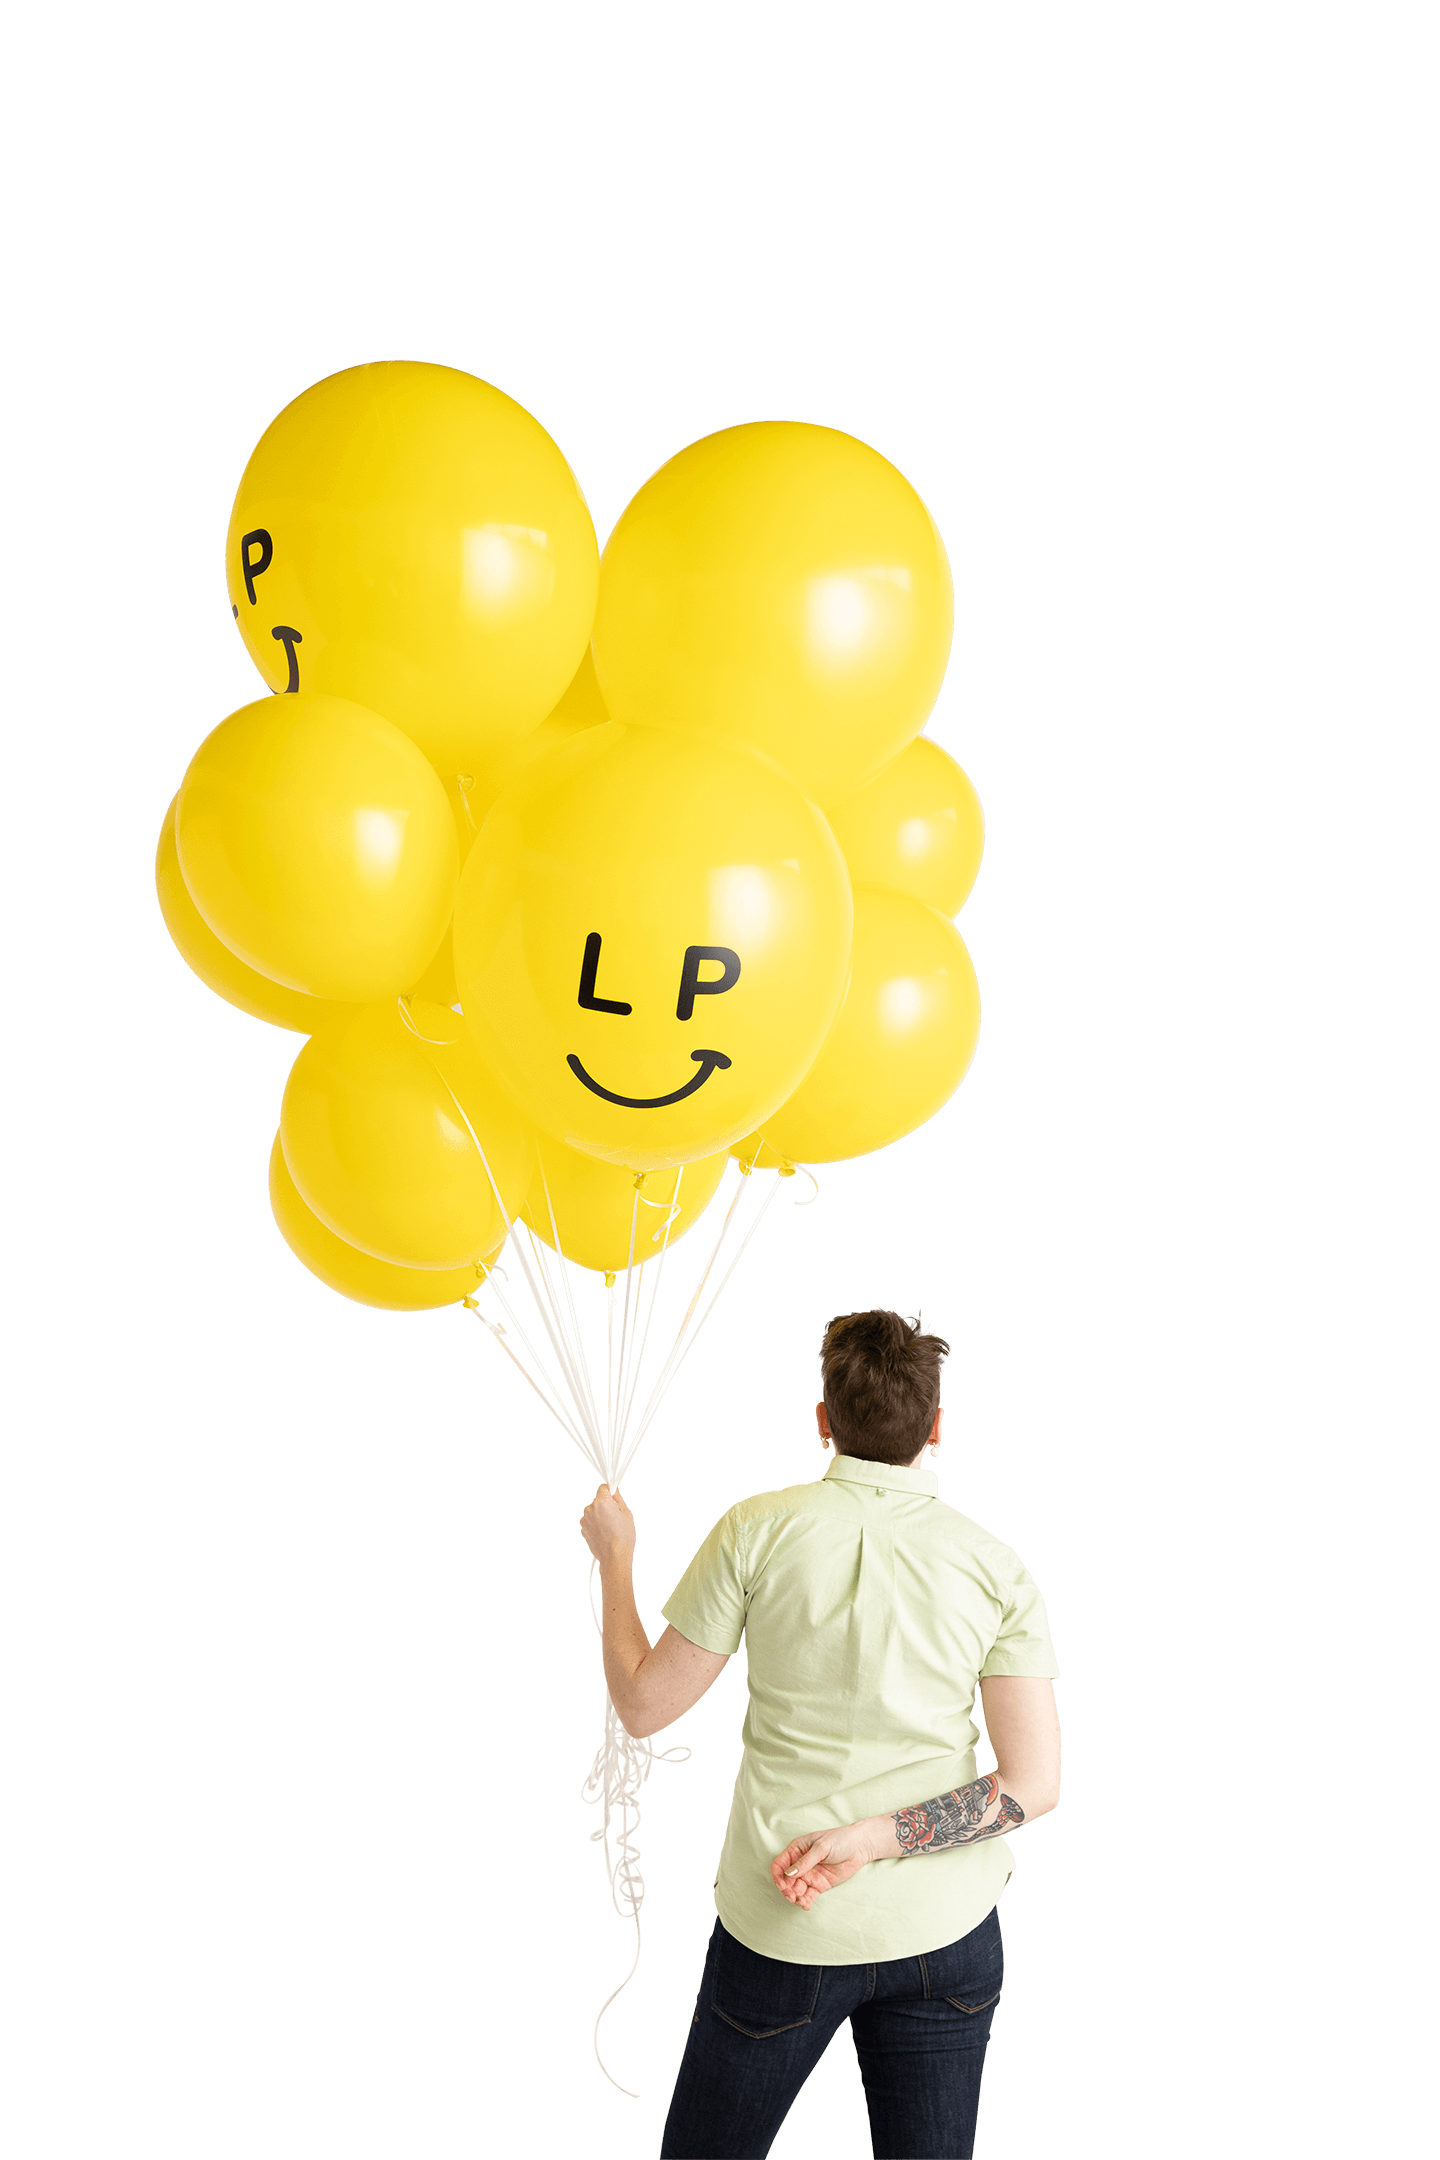
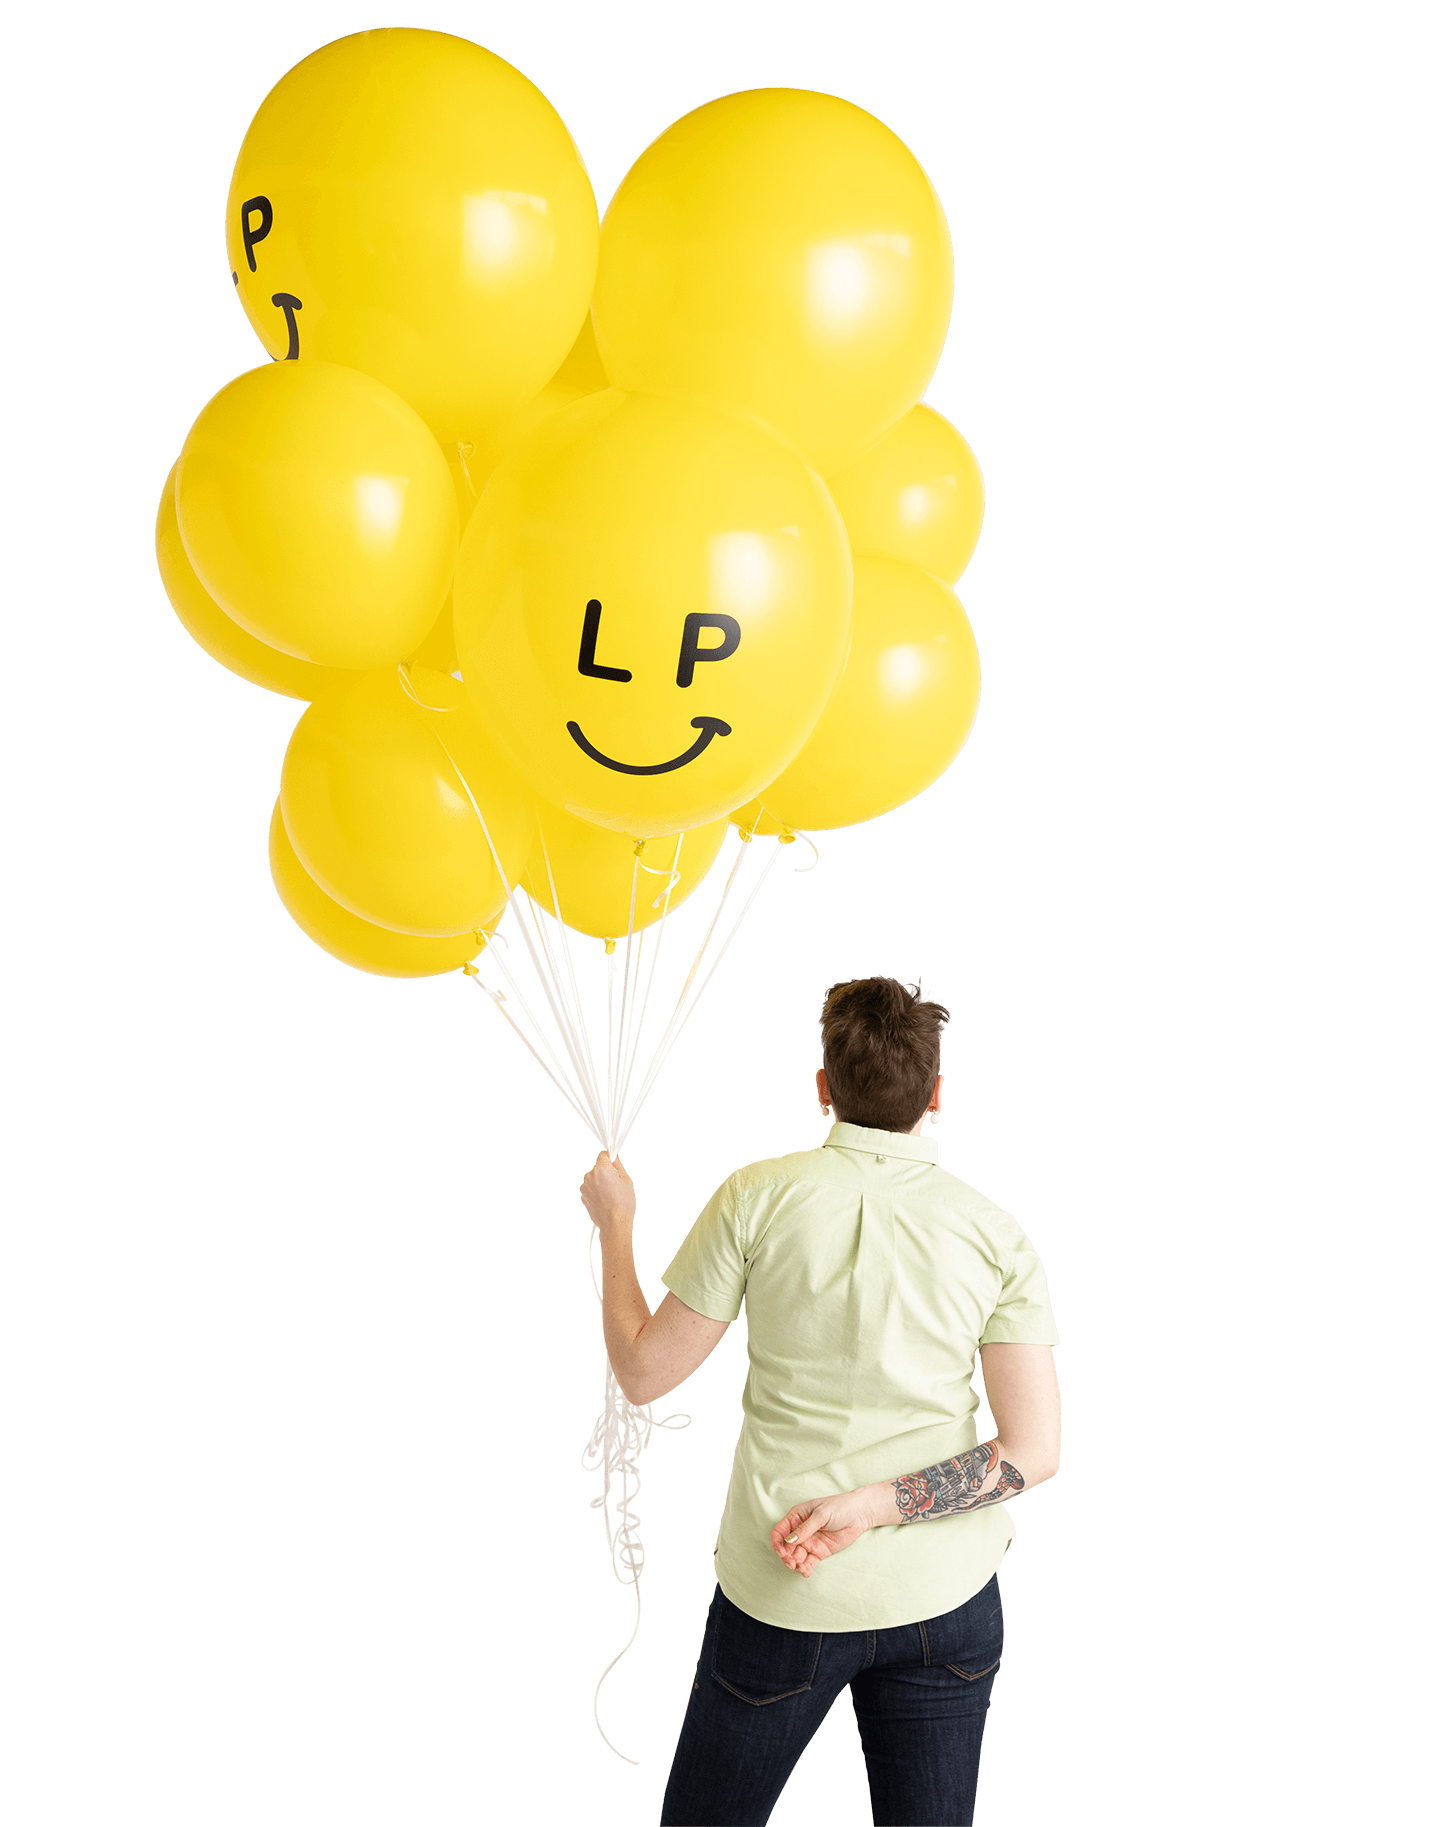
Get working on that services page!

Changed region(s): [[0.0938, 0.0, 0.75, 0.9672], [0.4062, 0.9048, 0.4375, 0.936]]

diff --git a/services.html b/services.html
@@ -1,10 +1,45 @@
 ---
-layout: page
+layout: base
 title: Services
 permalink: /services
 pagecssclass: background-green tall-intro
-subhead: Do you need some brain power?
-intro: |
-  <p style="min-height: 300px;">Services go here</p>
 ---
-<img src="img/me_2.png" class="contact-hero" width="100%" height="auto">
+<div class="split-background">&nbsp;</div>
+<main class="main-page services-page">
+  <div class="split-section">
+    <div class="header-area">
+      <a href="{{ site.baseurl }}/"><img src="{{ site.baseurl }}/img/lp_smile.svg" width="47" height="auto" alt="Lindsay Podrid"></a>
+      <h1>{{ page.title }}</h1>
+    </div>
+    <div class="intro-section">
+      <div class="subhead sub-orange">Bright Thinking</div>
+      <h2>Do you need some <br>brain power?</h2>
+      <p>They aren’t problems. They’re creative opportunities. Whether it’s how to increase conversion on your site through better user experiences, creating a strategy for your social media campaigns, directing a photoshoot, or running a brand workshop. I love digging into complex “problems” and distilling them into easy-to-understand and actionable pieces.</p>
+
+      <ul>
+        <li>Strategy</li>
+        <li>User Experience</li>
+        <li>Creative Direction</li>
+      </ul>
+
+      <div class="subhead sub-pink">Bright Thinking</div>
+      <h2>Do you need <br>to look good?</h2>
+      <p>I love to make my clients look good. Looking good is more than just good design. It’s understanding your customers and designing for them. Winning awards is great, and I’ve one a few, but if the creative doesn’t convert, then it’s not very creative.</p>
+
+      <ul>
+        <li>Packaging</li>
+        <li>Presentation Design</li>
+        <li>Art Direction</li>
+        <li>Digital Design</li>
+        <li>Identity and Brand</li>
+      </ul>
+
+      <div class="subhead">Bright Thinking</div>
+      <h2>A Lindsay is <br>standing by!</h2>
+      <p>I’d love to hear about your project, whether it’s big or small. I’m always looking to do good work for nice people. If you don’t have a project, then let’s just eat doughnuts and be friends.</p>
+
+      <p style="margin-top:50px;"><a href="{{ site.baseurl }}/about" class="continue-link">Get Started</a></p>
+    </div>
+  </div>
+  <div class="full-width-content"><img src="img/me_2.png" class="services-hero" width="100%" height="auto"></div>
+</main>

diff --git a/css/style.css b/css/style.css
@@ -59,6 +59,7 @@ h2 span { display: block; }
 .big-sub {
   font-size: 45px;
 }
+h2 br { display: none; }
 
 .home-image img {
   box-sizing: border-box;
@@ -145,7 +146,6 @@ h2 span { display: block; }
 .work-group {
   position: relative;
 }
-.work-group br { display: none; }
 .work-group span {
   background:  url('/design-pods/img/squiggles/work-group.svg') no-repeat;
   background-size: 35% 35%;
@@ -461,6 +461,27 @@ nav a:hover { color: #F9BAC0; }
   z-index: -1;
 }
 
+.services-page {
+
+}
+.services-page ul {
+  list-style-type: none;
+  font-weight: bold;
+  margin-bottom: 50px;
+  padding-left:  0;
+}
+
+.subhead {
+  color: #ACD5AD;
+  text-transform: uppercase;
+}
+.sub-pink {
+  color:  #F9BAC0;
+}
+.sub-orange {
+  color:  #FDB927;
+}
+
 .work-sort {
   padding: 0;
   text-align: center;
@@ -509,6 +530,7 @@ nav a:hover { color: #F9BAC0; }
   h2, .work-group {
     font-size: 65px;
   }
+  h2 br { display: inline; }
   .big-sub {
     font-size: 85px;
   }
@@ -706,8 +728,9 @@ nav a:hover { color: #F9BAC0; }
     margin: -350px 0 0;
     width:  100%;
   }
-  .contact-hero {
-    margin-top: -500px;
+
+  .services-hero {
+    margin-top: -50%;
     width: 60%;
   }
 
@@ -736,7 +759,7 @@ nav a:hover { color: #F9BAC0; }
   }
 
 
-  .work-group br { display: inline; }
+  .work-group br, .services-page br { display: inline; }
   .work-group span {
     background-size: 100% 100%;
     left: -45px;
@@ -748,6 +771,10 @@ nav a:hover { color: #F9BAC0; }
     padding-left: 50px;
     padding-right: 50px;
   }
+}
+
+@media (max-width: 965px) {
+  .work-group br, .services-page br { display: none; }
 }
 
 @media (min-width: 1440px) {
